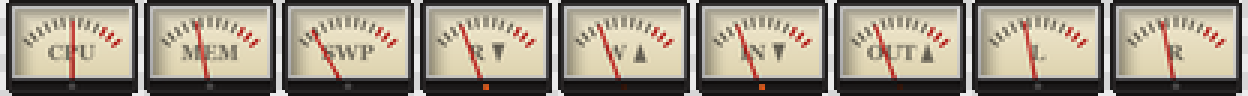
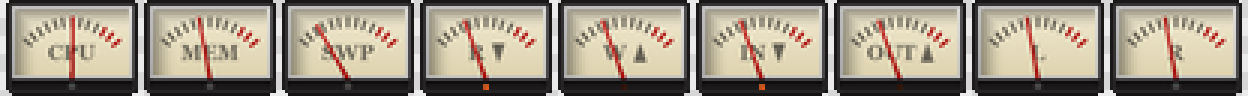
Align Vintage skin needle pivot with the scale arc
目盛り弧とは別の中心・半径で針を描いていたため、最小値・最大値で
針の先端が目盛りの両端からずれて見える不具合を修正。針の支点・
長さを目盛り弧の中心 (cx, arc_pivot_y) と半径 r_outer に一致させ、
tools/gen_vintage.py を再実行して全12メーター分のPNGを再生成した。

Fixed the needle drawing the same case's ticks around a different
center/radius, which made the tip miss the scale's endpoints at
min/max values. The needle now pivots at the tick arc's own center
(cx, arc_pivot_y) with radius r_outer, and all 12 meter PNGs were
regenerated via tools/gen_vintage.py.

Planned#17

diff --git a/tools/gen_vintage.py b/tools/gen_vintage.py
@@ -195,12 +195,6 @@ def draw_meter_case(img: Image.Image, x0, y0, label: str, arrow: str, ss: int,
     py0 = y0 + panel_margin
     px1 = x0 + case_w - panel_margin
     py1 = y0 + case_h * PANEL_H_FRAC
-    pivot_x = (px0 + px1) / 2
-    # The needle's true hinge sits at the case's own bottom edge -- hidden
-    # behind the bezel, like a real meter movement. Only the part of the
-    # needle above py1 (the panel's own bottom edge) is ever drawn; see the
-    # clipping below.
-    pivot_y = y0 + case_h
 
     # Silver bevel behind the cream face (angle-shaded for a brushed look).
     light_angle = math.radians(-60)
@@ -270,29 +264,28 @@ def draw_meter_case(img: Image.Image, x0, y0, label: str, arrow: str, ss: int,
                      outline=(20, 18, 18, 255))
 
     # Needle, baked last (on top of ticks/label/screw, matching the engine's
-    # own draw order of background-then-sprite). Drawn on a separate layer
-    # and clipped to y <= py1 -- the hinge (pivot_y, below py1) sits behind
-    # the panel's own bottom edge, same as the screw/lamp, so only the part
-    # of the needle that would show above that edge is kept.
+    # own draw order of background-then-sprite). Pivots at the tick arc's own
+    # center/outer radius (cx, arc_pivot_y / r_outer) so the tip always lands
+    # exactly on the scale, including at NEEDLE_MIN_DEG/NEEDLE_MAX_DEG where
+    # it must meet the first/last tick. arc_pivot_y sits just below py1 (the
+    # panel's own bottom edge), so the hinge itself stays hidden behind the
+    # bezel like a real meter movement; the clipping below keeps only the
+    # part of the needle that would show above that edge.
     if needle_deg is not None:
         rad = math.radians(needle_deg - 90)
-        # Lengthened by the same amount the hinge moved down from the old
-        # (visible) pivot at py1, so a centered needle (deg=0) still reaches
-        # the same tip height as before.
-        needle_len = face_h * 0.86 + (pivot_y - py1)
-        tip_x = pivot_x + needle_len * math.cos(rad)
-        tip_y = pivot_y + needle_len * math.sin(rad)
+        tip_x = cx + r_outer * math.cos(rad)
+        tip_y = arc_pivot_y + r_outer * math.sin(rad)
         perp = rad + math.pi / 2
         base_w = max(0.6 * ss, 2.0 * SCALE * ss)
         bx, by = base_w * math.cos(perp), base_w * math.sin(perp)
         needle_layer = Image.new("RGBA", img.size, (0, 0, 0, 0))
         ndraw = ImageDraw.Draw(needle_layer)
         ndraw.polygon([
-            (pivot_x - bx, pivot_y - by),
-            (pivot_x + bx, pivot_y + by),
+            (cx - bx, arc_pivot_y - by),
+            (cx + bx, arc_pivot_y + by),
             (tip_x, tip_y),
         ], fill=NEEDLE_SHADOW + (255,))
-        ndraw.line([pivot_x, pivot_y, tip_x, tip_y], fill=NEEDLE_COL + (255,), width=ss)
+        ndraw.line([cx, arc_pivot_y, tip_x, tip_y], fill=NEEDLE_COL + (255,), width=ss)
         mask = Image.new("L", img.size, 0)
         ImageDraw.Draw(mask).rectangle([0, 0, img.width, py1], fill=255)
         r, g, b, a = needle_layer.split()
